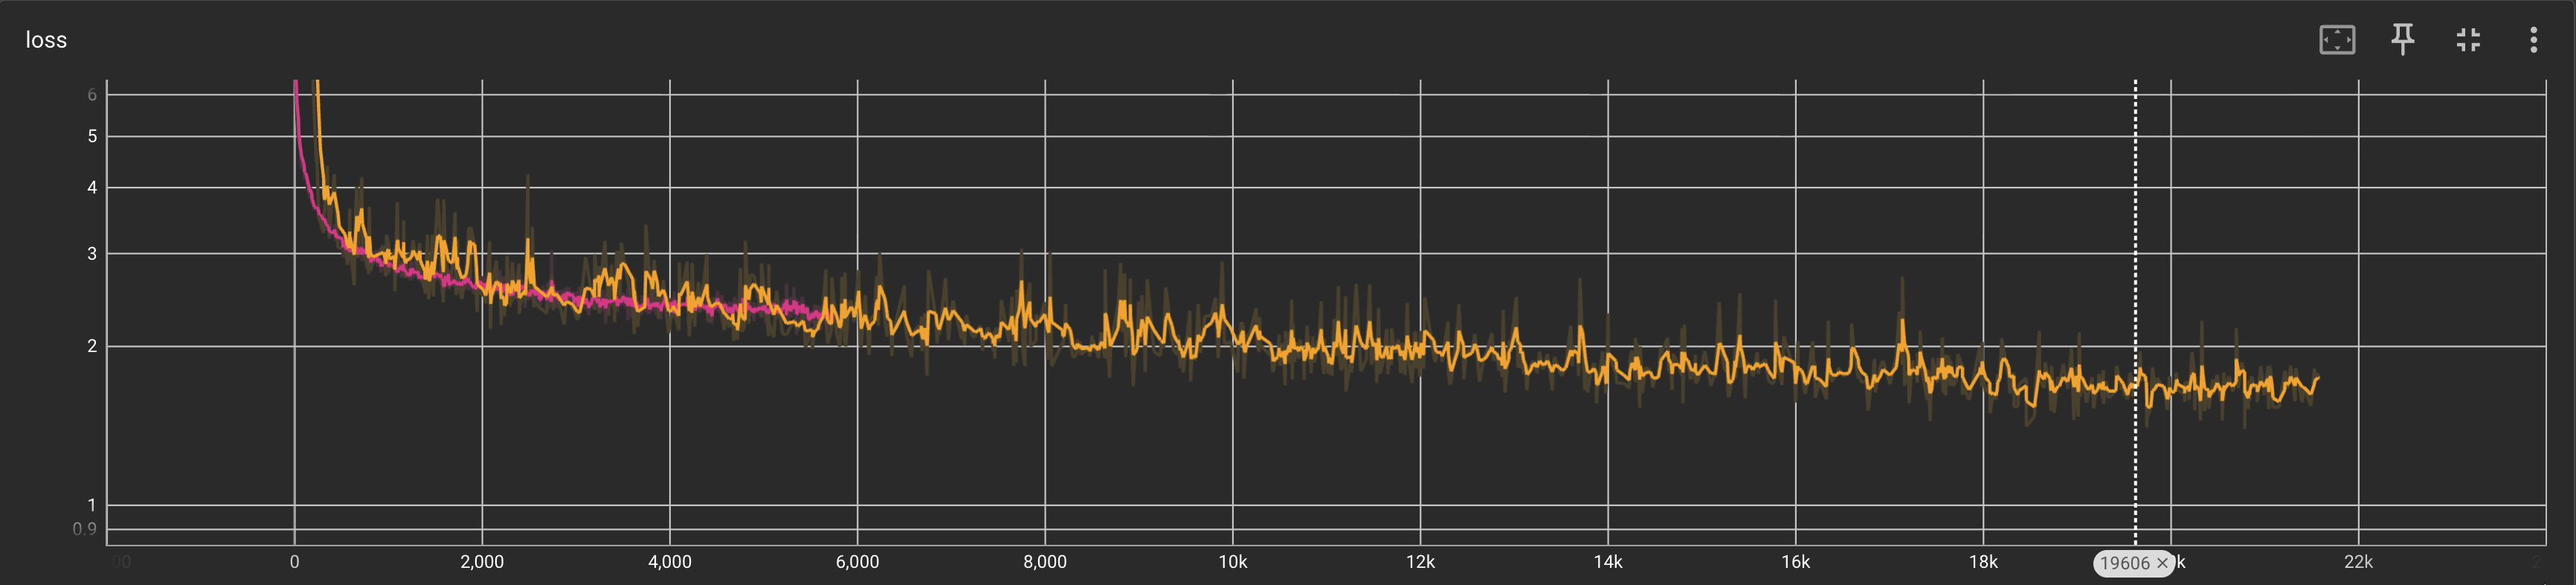
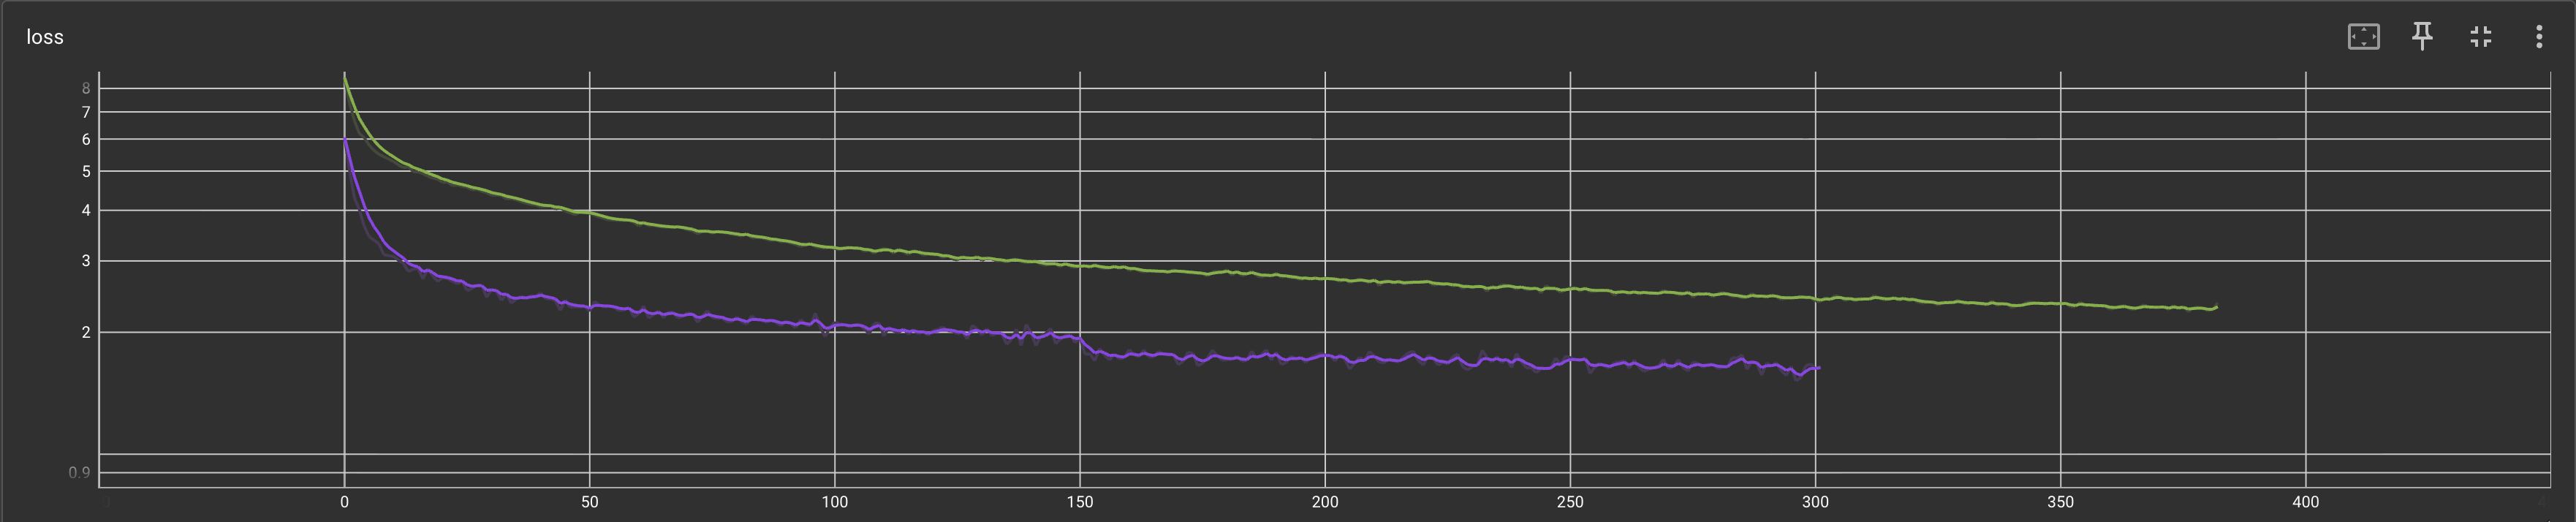
Update config defaults, notebook 02 params, and training loss chart

Changed region(s): [[0.0312, 0.0, 1.0, 1.0], [0.0312, 0.493, 0.0624, 0.5238], [0.0, 0.0616, 0.0312, 0.0924]]

diff --git a/dustylm/config.py b/dustylm/config.py
@@ -239,7 +239,7 @@ register(
             / "datasets"
             / "dusty_pretrain_tokenized",
             batch_size=32,
-            learning_rate=5e-4,
+            learning_rate=3e-3,
             output_checkpoint=REPO_ROOT / "artifacts" / "checkpoints" / "dusty8m.pt",
             max_seq_len=256,
             weight_decay=0.01,
@@ -267,7 +267,7 @@ register(
             task=TrainingTask.SFT,
             dataset_path=REPO_ROOT / "artifacts" / "datasets" / "dusty_sft_tokenized",
             batch_size=32,
-            learning_rate=1e-5,
+            learning_rate=1e-3,
             output_checkpoint=REPO_ROOT
             / "artifacts"
             / "checkpoints"